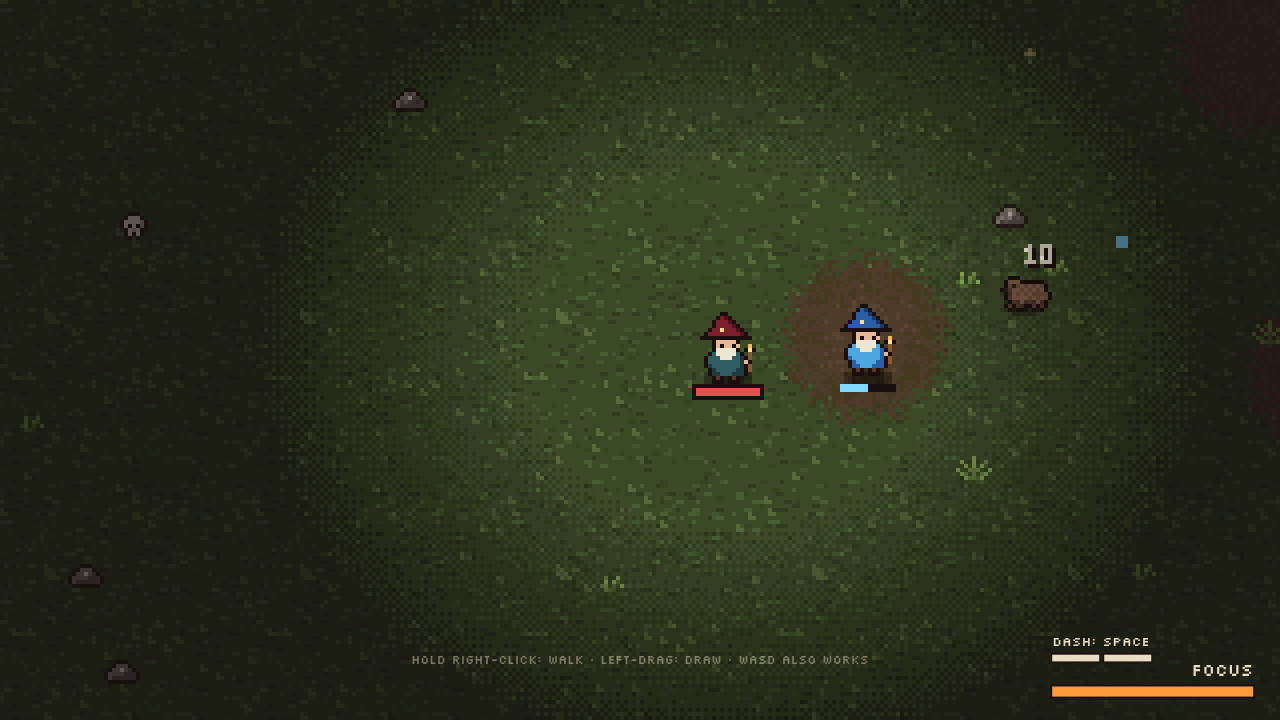
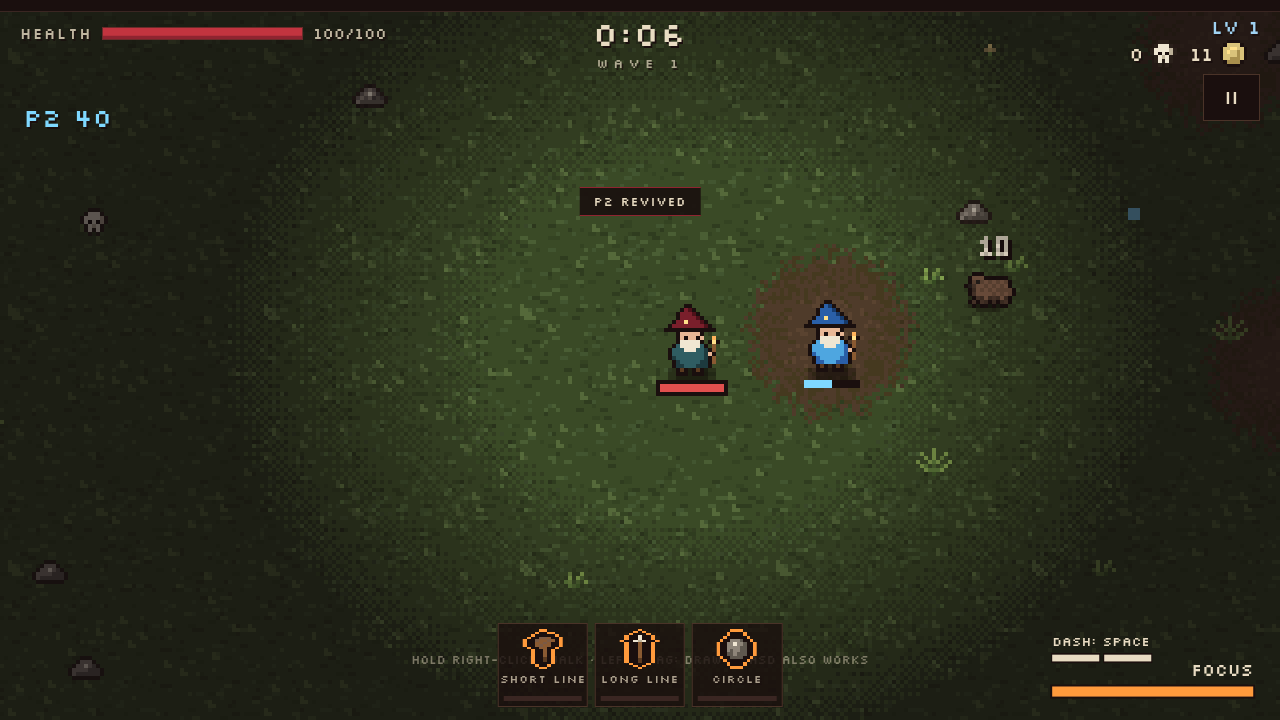
update(local-multiplayer): local co-op

diff --git a/sw.js b/sw.js
@@ -1,5 +1,5 @@
 // Era Draw service worker: cache-first, versioned. Bump VERSION on every release.
-const VERSION='eradraw-20261014120725';
+const VERSION='eradraw-20261014121058';
 const ASSETS=['./','index.html','style.css','fonts/fonts.css','manifest.webmanifest','icon.svg','icons/icon-180.png','icons/icon-192.png','fonts/Silkscreen-400.woff2','fonts/Silkscreen-700.woff2','fonts/VT323-400.woff2','fonts/InstrumentSerif-400.woff2',
  'audio.js','sprites.js','enemies.js','forge.js','game.js','eras.js','meta.js','platform.js','progression.js','cave.js','ink.js','iron.js','bosses.js','social.js','coop.js','main.js'];
 self.addEventListener('install',e=>{e.waitUntil(caches.open(VERSION).then(c=>c.addAll(ASSETS)).then(()=>self.skipWaiting()))});
